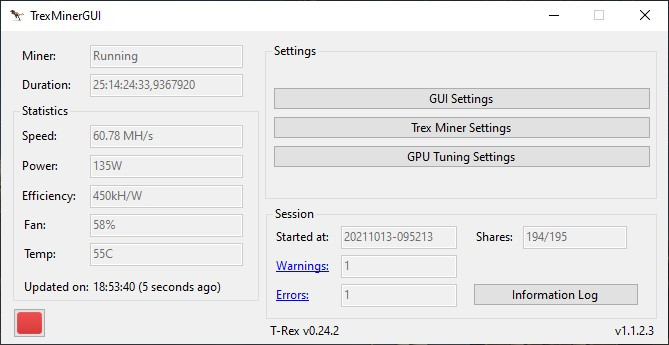
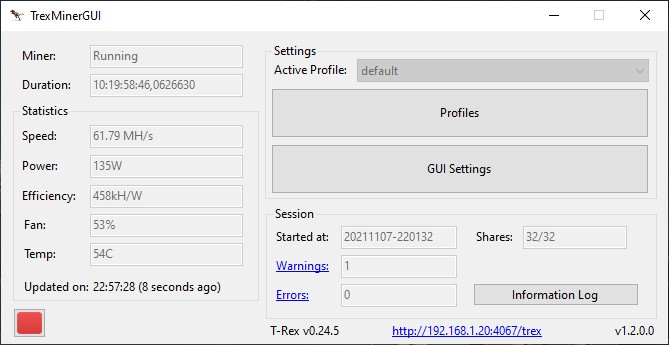
Update README.md

diff --git a/README.md b/README.md
@@ -7,6 +7,8 @@ A simple Trex -miner- GUI app for single GPU users.
 
 ## Features
 - Features stopwatch that only runs if miner actually mines
+- Profile support
+- Validity check for miner arguments
 - Shows GPU statistics
 - Full automatic updates for both miner (even the miner does not notify user about update) and the application itself
 - Filter miner logs for warnings & errors
@@ -16,13 +18,11 @@ A simple Trex -miner- GUI app for single GPU users.
 - (Optional) Automatically start miner on app startup
 
 ## To-Do
-- (Feature) Validity check for miner arguments
 - (Feature) Window for creating miner arguments interactively
 - (Feature) Start/Stop the miner based on running apps
 - (Feature) Handle miner outputs for LHR cards
 - (Feature) Handle miner outputs for dual mining on LHR cards
 - (Feature) Duration reset
-- (Feature) Profile support
 - (Fix) MSI Afterburner sometimes fails to get terminated after applying profile
 - (?) Removal of administrator privilege requirement
 
